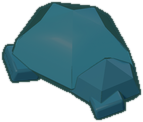
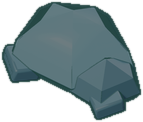
石头的彩度随受光下降：之前它和草地一样饱和，看着像草地上一团青
参考图里的石头饱和度跟着明度往下走（背光面 0.443 / 中间 0.288 / 受光面
0.190，斜率 −1.50），我们的是平的 0.595，比旁边草地的 0.551 还高。根因是
tone() 的彩度乘法 1.62 倍有一条 s0 0.12 → s1 0.28 的渐入，是为放过灰色材
质写的，但 prim.py 给石头上的 '#6a9fa8' 饱和度 0.374，早就越过了渐入，吃
满了这 1.62 倍。

新加 shade.py 的 stone_sat()：按明度缩放彩度，色相和明度不动，只对 STONE
生效。两个端点取参考图自己的两个面，两个系数在成品贴图上扫出来（重采样和
描边排在这个 pass 之后，算出来的值到不了成品）。棋盘上石头的饱和度
0.600 → 0.280，相对草地从 +0.049 变成 −0.271，参考图是 −0.21。草地逐位
未变。

这一轮同时排除了格子缝、下沿亮边、地面色相、树冠对比四项，数字写进
DECISIONS.md，以后不要再去碰。石头的面还是软的、色相还是平的，没改。

diff --git a/tools/art3d/shade.py b/tools/art3d/shade.py
@@ -147,6 +147,21 @@ GROVE_BAND_K = 0.55
 # than a thing standing on it. Its own ceiling and its own two tiers, taken off that histogram.
 ROCK_CAP = {'t': 0.48, 'c': 0.25, 'mul': 0.52}
 ROCK_BAND = (0.270, 0.345, 0.420, 0.490)
+# D130: AND A STONE'S CHROMA FALLS AS IT LIGHTS. The reference's stone prop (IMG_3728, 688..722 x
+# 1364..1392, dpr 3) walks its saturation DOWN as its value walks up: shaded face V 0.380 S 0.443,
+# mid V 0.463-0.529 S 0.288, lit face V 0.529-0.549 S 0.190 -- a slope of -1.50 S per unit V. That
+# is what makes it read as stone and not as a painted lump: its lit faces go toward the light's own
+# grey. Ours ran FLAT -- S 0.541/0.611/0.605/0.592/0.571 across V 0.235..0.537, median 0.595 -- so
+# the whole body sat at the grass's own chroma (0.571) and the rock read as a cyan smudge on it.
+# The cause is upstream: tone()'s chroma multiply (TONE['sat'] 1.62) ramps in over s0 0.12 -> s1
+# 0.28 to spare grey materials, and the note above GROVE_SAT still says "rock is grey at 0.04" --
+# but prim.py paints it '#6a9fa8', S 0.374, clear of the ramp, so stone takes the FULL 1.62x.
+# Rather than unpick that ramp for every piece, chroma is scaled here by a ramp in value. v0/v1 are
+# the reference's own two faces; k0/k1 are fitted on the FINISHED sprite, because sized() resamples
+# and inner_lines() inks after this pass, so a scale applied here does not survive as itself (0.75
+# at the dark end came out as 0.495 against the reference's 0.443). Swept 0.62..0.75 x 0.18..0.32
+# over four ramp windows; this pair lands S 0.451/0.256/0.240 on the reference's 0.443/0.288/0.190.
+ROCK_SAT = {'v0': 0.380, 'k0': 0.68, 'v1': 0.549, 'k1': 0.30}
 # D118: AND THE GLOSS OFF ITS LOBES. GROVE_CAP capped the speculars' VALUE; their whiteness stayed.
 # The reference's canopy holds saturation in a narrow band -- p10/median/p90 0.760/0.822/0.884,
 # 0.38% of it under 0.7 of the median -- where ours ran 0.648/0.861/0.990 (oak) and 0.567/0.826/
@@ -355,6 +370,18 @@ def band(im: Image.Image, levels, k: float = GROVE_BAND_K, sat: bool = False) ->
         f = np.where(m & (sv > 1e-6), (med + (sv - med) * GROVE_SAT_K) / np.maximum(sv, 1e-6), 1.0)
         out = vv[..., None] - (vv[..., None] - out) * f[..., None]
     a[..., :3] = np.clip(out, 0, 1) * 255
+    return Image.fromarray(np.clip(a + 0.5, 0, 255).astype(np.uint8), 'RGBA')
+
+
+def stone_sat(im: Image.Image, cfg=ROCK_SAT) -> Image.Image:
+    """Walk a stone's chroma down as its value walks up (D130). Hue and value untouched."""
+    a = np.asarray(im).astype(np.float64)
+    rgb = a[..., :3] / 255
+    v = rgb.max(-1)
+    m = (v > 0.14) & (a[..., 3] > 128)
+    t = np.clip((v - cfg['v0']) / (cfg['v1'] - cfg['v0']), 0, 1)
+    k = np.where(m, cfg['k0'] + (cfg['k1'] - cfg['k0']) * t, 1.0)[..., None]
+    a[..., :3] = np.clip(v[..., None] - (v[..., None] - rgb) * k, 0, 1) * 255
     return Image.fromarray(np.clip(a + 0.5, 0, 255).astype(np.uint8), 'RGBA')
 
 

diff --git a/tools/art3d/sprite.py b/tools/art3d/sprite.py
@@ -37,7 +37,8 @@ from PIL import Image, ImageFilter
 
 sys.path.insert(0, str(Path(__file__).resolve().parent))
 from shade import (GROVE_BAND, GROVE_CAP, GROVE_SAT, INK, LINE,  # noqa: E402  the colour passes
-                   ROCK_BAND, ROCK_CAP, band, cool, flat, inner_lines, read_pass, split, tone)
+                   ROCK_BAND, ROCK_CAP, band, cool, flat, inner_lines, read_pass, split,
+                   stone_sat, tone)
 
 # texture px per CSS px: 3 since 2026-11-15 (a 3x phone draws a sprite 1:1; at 2 it was stretched
 # 1.2-1.6x on phones and desktops and looked soft). The outline grows with it (OUTLINE_PX).
@@ -175,7 +176,7 @@ def sym(im, b):
 
 
 def make(paths, height: int, px: int, want=None, geos=None, deep=False, ink_rgb=None, cap=None,
-         bands=None, sat=False):
+         bands=None, sat=False, stone=False):
     """Size one group of frames together: shared crop box, one scale solved on the first frame."""
     ims = [Image.open(f).convert('RGBA') for f in paths]
     ims, geos = centred(ims, geos)
@@ -209,6 +210,8 @@ def make(paths, height: int, px: int, want=None, geos=None, deep=False, ink_rgb=
             im = split(im)
         if bands is not None:          # and then into flat tiers: grove only
             im = band(im, bands, sat=sat)
+            if stone:                      # a stone's chroma falls as it lights (D130)
+                im = stone_sat(im)
             if sat:                        # and the shade toward the sky: oak and pine (D119)
                 im = cool(im)
         if g is not None:
@@ -281,7 +284,7 @@ def main():
                    GROVE_INK if grove else None,
                    (ROCK_CAP if name in STONE else GROVE_CAP) if grove else None,
                    (ROCK_BAND if name in STONE else GROVE_BAND) if grove else None,
-                   name in GROVE_SAT)
+                   name in GROVE_SAT, name in STONE)
         for f, im in zip(paths, ims):
             im.save(out / f.name)
         print(base, len(ims), ims[0].size, 'area', area(ims[0]), 'old', want)

diff --git a/DECISIONS.md b/DECISIONS.md
@@ -4315,3 +4315,98 @@ alpha 定在 0.20 是夹出来的：用同一张固定掩膜量，0.24 → 0.098
 5. **这一轮只碰了 oak 和 pine。** rocks 走的是 `ROCK_CAP` / `ROCK_BAND`，没变；它现在仍然是一个
    偏亮、偏冷蓝、表面光滑的块，下一轮再看。
 6. **这不是和参考图一样了。** 变的是树冠亮部和暗边的占比，树冠本身的画法没变。
+
+## D130 石头的彩度随受光下降：之前它和草地一样饱和，所以看着像草地上的一块蓝疙瘩
+
+**先说这一轮排除掉的东西。** 这次先把整块棋盘和参考图逐项对了一遍，结果是**颜色和明度已经到位，
+剩下的差距是形状**。下面四条都量过，和参考图在噪声之内，以后不要再去碰：
+
+| | 参考图 | 我们 |
+| --- | --- | --- |
+| 格子缝宽 / 深度 | 1.67 逻辑 px，−0.105 | 2.00 逻辑 px，−0.112 |
+| 下沿的亮边 | 约 7 逻辑 px 上抬 +0.017…+0.024 | `RIM_D` 0.025 / `RIM_W` 0.42 / 4 条 |
+| 地面色相 | H 170–172 | H 169.7–170.6 |
+| 树冠压在地面上的对比 | 0.122–0.125（27–28%） | 0.125（27%） |
+
+（地面中位明度我们高 0.015、中位饱和度低 0.02–0.04，是小项，这一轮没动。）
+
+**真正的问题是石头。** 参考图里的那块石头（IMG_3728，688..722 x 1364..1392，dpr 3）的饱和度是
+**跟着明度往下走**的：
+
+| | 明度 | 饱和度 |
+| --- | --- | --- |
+| 背光面 | 0.380 | 0.443 |
+| 中间 | 0.463–0.529 | 0.288 |
+| 受光面 | 0.529–0.549 | 0.190 |
+
+斜率 −1.50 饱和度每单位明度。石头之所以看起来像石头，就在这条斜线上——它的受光面会朝光本身的
+灰色走。我们的是**平的**：明度从 0.235 走到 0.537，饱和度一路 0.541 / 0.611 / 0.605 / 0.592 /
+0.571，中位 0.595，而旁边草地的中位是 0.551。整块石头和草地一样饱和，只是色相偏蓝一点，所以它
+在棋盘上读出来不是一块石头，是草地上糊了一团青。
+
+**根因在上游。** `tone()` 里的彩度乘法（`TONE['sat']` = 1.62）为了放过灰色材质，做了一条从
+`s0` 0.12 到 `s1` 0.28 的渐入，`GROVE_SAT` 上面那段注释到今天还写着"rock is grey at 0.04"。但
+`prim.py` 给石头上的色是 `'#6a9fa8'`，饱和度 0.374，早就越过了这条渐入，于是石头吃满 1.62 倍：
+0.374 × 1.62 ≈ 0.60，正好是量到的数。
+
+**改法。** 没有去动那条对所有部件都生效的渐入，而是新加 `stone_sat()`：按明度做一条彩度缩放，
+色相和明度一个都不碰，只对 `STONE`（目前只有 `rocks`）生效，插在 `band()` 之后。
+
+```
+ROCK_SAT = {'v0': 0.380, 'k0': 0.68, 'v1': 0.549, 'k1': 0.30}
+```
+
+`v0` / `v1` 就是参考图那两个面的明度；`k0` / `k1` 是在**成品贴图上**扫出来的，不是算出来的——
+`sized()` 的重采样和 `inner_lines()` 的描边都排在这个 pass 后面，所以在这里乘 0.75，到成品上量
+出来是 0.495（参考图 0.443）。扫了 0.62..0.75 × 0.18..0.32 共八组、四种斜坡区间：
+
+| 方案 | S@V0.38 | S@V0.50 | S@V0.54 | 误差和 |
+| --- | --- | --- | --- | --- |
+| 参考图 | 0.443 | 0.288 | 0.190 | — |
+| 改之前（平的） | 0.670 | 0.593 | 0.612 | 0.955 |
+| **0.68 / 0.30（选中）** | **0.451** | **0.256** | **0.240** | **0.090** |
+| 0.70 / 0.20（窗口 0.42–0.53） | 0.467 | 0.224 | 0.186 | 0.092 |
+| 0.65 / 0.26 | 0.429 | 0.232 | 0.217 | 0.097 |
+| 0.62 / 0.22 | 0.407 | 0.215 | 0.194 | 0.114 |
+
+选中的那组和第二名误差打平，但它的两个端点正好落在参考图自己的两个面上，常数读起来有意义。
+
+**棋盘上实测**（种子 2，同一块裁剪 468..512 x 798..838）：
+
+| | 色相 | 饱和度 | 相对草地 |
+| --- | --- | --- | --- |
+| 改之前 | 191.5 | 0.600 | **比草地还饱和 +0.049** |
+| 改之后 | 190.6 | 0.280 | −0.271 |
+| 参考图那块石头 | 174.1 | 0.366 | −0.205…−0.224 |
+
+草地本身一点没变（H 170.4 / S 0.551 / V 0.482，改前改后逐位相同）。
+
+`npm run check` 全绿：76 个文件 / 605 个测试。
+
+### 还差多少，说清楚
+
+1. **我们现在比参考图更"退得开"。** 参考图的石头比它的草地低 0.21 饱和度，我们低 0.27。方向从
+   错的（+0.049）变成对的，幅度稍微过了一点点，没有再去凑——再凑就是拿一块 11x9 逻辑 px 的参
+   考裁剪去标定小数点后第三位。
+2. **石头的面还是软的。** 参考图的石头是几块硬边的平面拼起来的，我们的面与面之间还是渐变过
+   渡。这是模型和渲染的事（`props.py` / `prim.py`），不是彩度的事，这一轮没碰。
+3. **色相没动。** 参考图的石头受光面 H 159、背光面 H 184，色相也跟着明度走；我们是平的 190。
+   这一轮只拉了一条杠杆（彩度），色相留着下一轮。
+4. **`prim.py` 的 `'rock': '#6a9fa8'` 本身仍然是青色**（H 191 / S 0.37），不是石头色。真要治本
+   是改材质重渲，这一轮走的是重新上色这条路，不需要 Blender。
+5. **`ROCK_CAP` 没动，D122 那条存疑。** D122 写"参考图的石块比它自己的地面高 0.082"，这一轮在
+   参考图里找到的唯一一块暗色团块比地面**低** 0.086——但那块后来放大看出来是树干根部，不是石
+   头。真正的石柱（上面量的那块）受光面比地面高 0.125。两条都没法直接推翻 D122 的直方图，所以
+   明度这一轮没动，留个记号。
+6. **这不是和参考图一样了。** 变的是石头的彩度随明度的走向，石头的形状、色相、明度都没变。
+
+### 这一轮被污染的两次读数，记下来免得重犯
+
+- 一条竖着的取样线穿过了格子的斜缝，读出来是一条长长的平滑斜坡，差点据此去改 `ground.ts` 的
+  明度量化。换成垂直于一条干净的横缝去量，缝和亮边都和参考图一致。
+- IMG_3728 545..596 x 1368..1396 的灰紫色团块被当成了石头，裁剪放大到 5 倍（480..680 x
+  1300..1440）才看出来它正压在一个树冠底下——那是树干的根部。
+- 自动找"石头"的脚本在 19 张参考图里都命中同一个 173x97 的块（H 178.1 / S 0.295 / V 0.412，位
+  置逐张相同），那是 HUD 面板。参考图里真正的石头道具很少。
+
+**规矩再写一遍：任何参考裁剪，先放大到 4 倍以上看过，再信它身上的任何统计量。**
